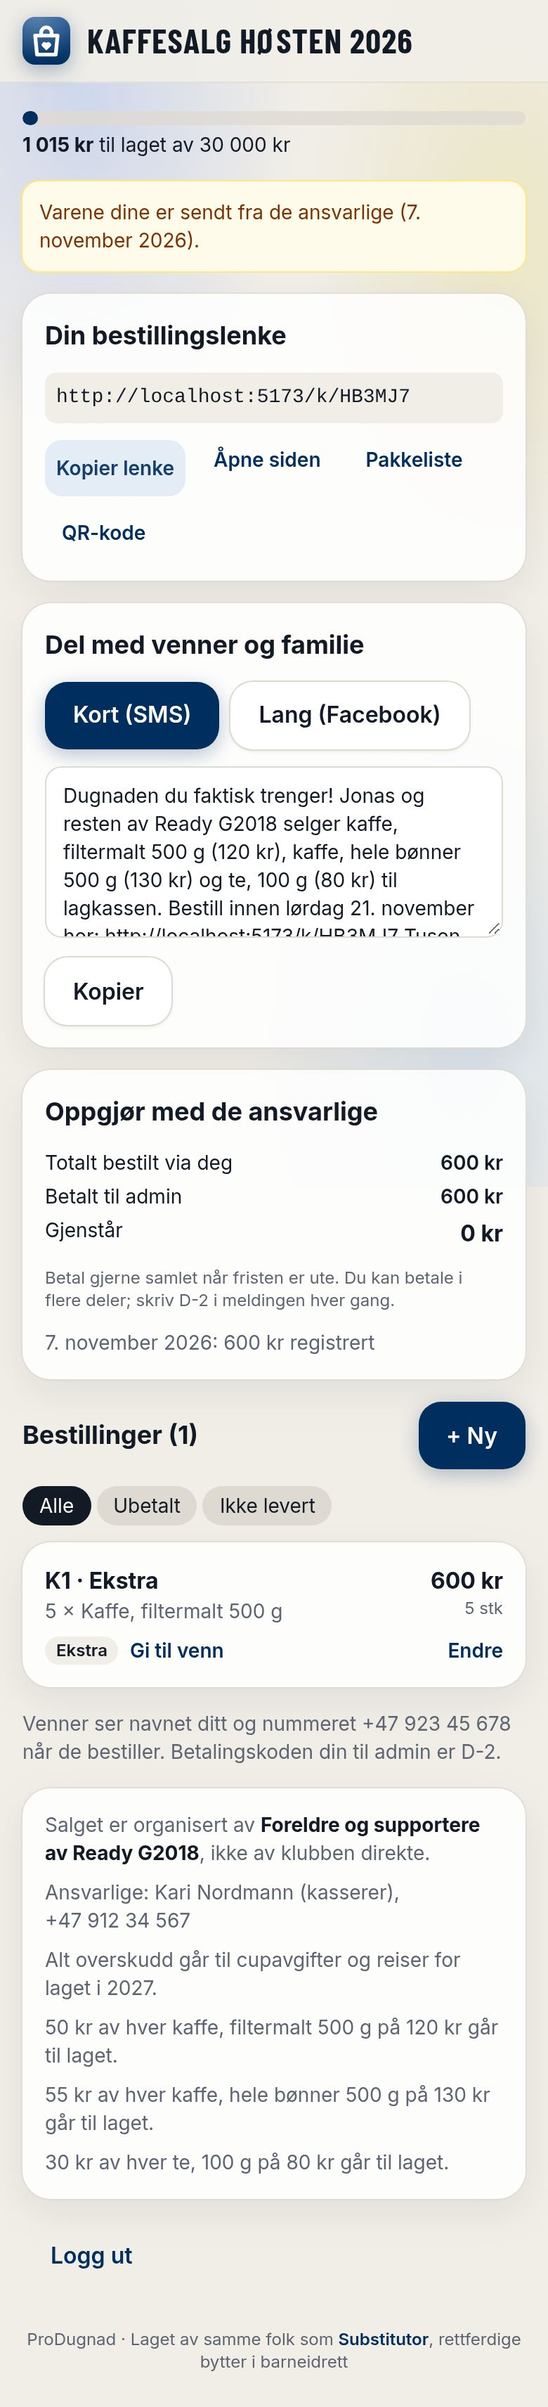
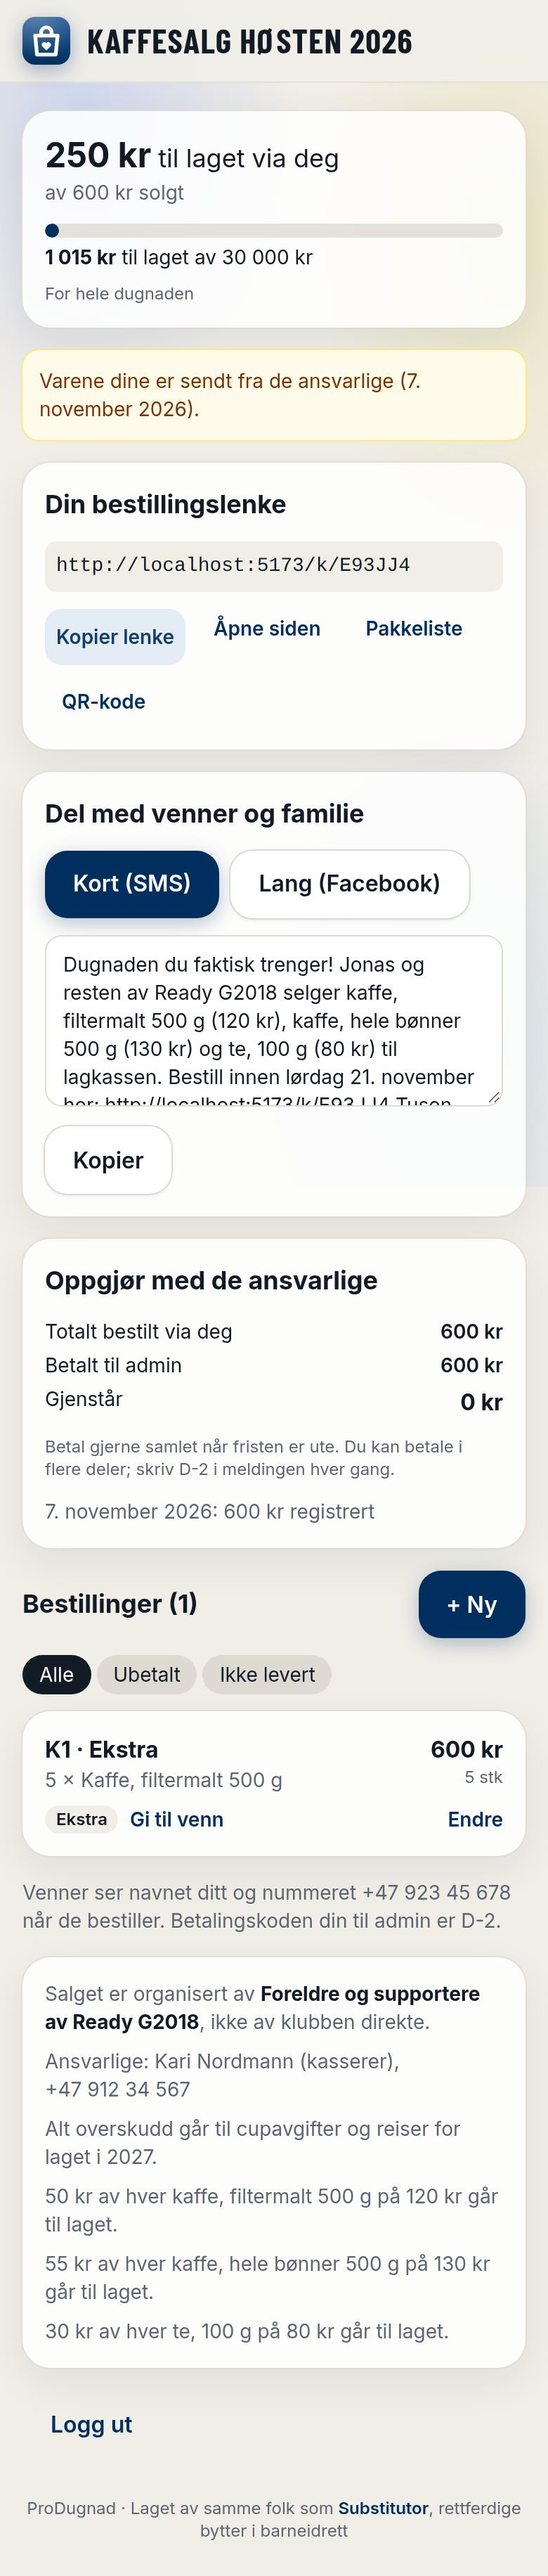
Money to the team per parent (parent page and admin list with sorting); idea list in the plan

Changed region(s): [[0.0308, 0.0, 0.9846, 1.0], [0.3692, 0.9688, 0.7692, 1.0], [0.2769, 0.9688, 0.3077, 1.0]]

diff --git a/src/pages/admin/ParentsTab.tsx b/src/pages/admin/ParentsTab.tsx
@@ -8,9 +8,14 @@ import { supabase } from '../../lib/supabase'
 
 export function ParentsTab({ data, reload }: { data: AdminData; reload: () => Promise<void> }) {
   const [open, setOpen] = useState<string | null>(null)
+  const [sortBy, setSortBy] = useState<'name' | 'team'>('name')
   const rows = data.parents
     .map((p) => ({ parent: p, totals: data.totals.find((t) => t.campaign_parent_id === p.id) }))
-    .sort((a, b) => a.parent.profiles.name.localeCompare(b.parent.profiles.name, 'nb'))
+    .sort((a, b) =>
+      sortBy === 'team'
+        ? Number(b.totals?.to_team ?? 0) - Number(a.totals?.to_team ?? 0)
+        : a.parent.profiles.name.localeCompare(b.parent.profiles.name, 'nb'),
+    )
 
   const printAll = (
     <Link to={`/admin/d/${data.campaign.id}/pakkelister`} className="block w-fit font-semibold text-brand">
@@ -21,7 +26,23 @@ export function ParentsTab({ data, reload }: { data: AdminData; reload: () => Pr
 
   return (
     <div className="space-y-2">
-      {printAll}
+      <div className="flex flex-wrap items-center justify-between gap-2">
+        {printAll}
+        <div className="flex gap-1 text-sm" role="radiogroup" aria-label="Sorter">
+          {(['name', 'team'] as const).map((k) => (
+            <button
+              key={k}
+              type="button"
+              role="radio"
+              aria-checked={sortBy === k}
+              onClick={() => setSortBy(k)}
+              className={`rounded-full px-3 py-1 ${sortBy === k ? 'bg-ink text-white' : 'bg-line'}`}
+            >
+              {k === 'name' ? 'Navn' : 'Mest til laget'}
+            </button>
+          ))}
+        </div>
+      </div>
       {rows.map(({ parent, totals }) => {
         const diff = Number(totals?.diff ?? 0)
         return (
@@ -33,10 +54,11 @@ export function ParentsTab({ data, reload }: { data: AdminData; reload: () => Pr
                 </div>
                 <div className="text-sm text-muted">
                   {parent.child_first_name && `${parent.child_first_name} · `}
-                  {totals?.order_count ?? 0} {totals?.order_count === 1 ? 'bestilling' : 'bestillinger'}
+                  {totals?.order_count ?? 0} {totals?.order_count === 1 ? 'bestilling' : 'bestillinger'} ·{' '}
+                  <strong className="text-ink">{kr(totals?.to_team)}</strong> til laget
                 </div>
               </div>
-              <div className="text-right text-sm">
+              <div className="shrink-0 space-y-1 text-right text-sm whitespace-nowrap">
                 <div>
                   {kr(totals?.paid)} / {kr(totals?.owed)}
                 </div>

diff --git a/src/pages/parent/ParentPage.tsx b/src/pages/parent/ParentPage.tsx
@@ -70,7 +70,14 @@ export default function ParentPage() {
       <TopBar title={campaign.name} back={profile?.is_admin ? '/admin' : undefined} />
       <Page>
         {page && page.campaign.raised !== null && (
-          <ProgressBar raised={page.campaign.raised} target={page.campaign.target_amount ?? 0} />
+          <Card className="space-y-3">
+            <p className="text-lg">
+              <strong className="text-2xl">{kr(totals?.to_team)}</strong> til laget via deg
+              <span className="block text-sm text-muted">av {kr(totals?.owed)} solgt</span>
+            </p>
+            <ProgressBar raised={page.campaign.raised} target={page.campaign.target_amount ?? 0} />
+            <p className="-mt-1 text-xs text-muted">For hele dugnaden</p>
+          </Card>
         )}
         {campaign.locked_at && !campaign.closed_at && (
           <Notice>Bestillingene er låst. Varene er bestilt fra leverandøren. Du kan fortsatt krysse av betalt og levert.</Notice>

diff --git a/src/components/ui.tsx b/src/components/ui.tsx
@@ -101,7 +101,7 @@ export function Badge({ children, tone = 'stone' }: { children: ReactNode; tone?
     amber: 'bg-amber-100 text-amber-900',
     blue: 'bg-sky-100 text-sky-900',
   }
-  return <span className={`inline-block rounded-full px-2 py-0.5 text-xs font-semibold ${tones[tone]}`}>{children}</span>
+  return <span className={`inline-block rounded-full px-2 py-0.5 text-xs font-semibold whitespace-nowrap ${tones[tone]}`}>{children}</span>
 }
 
 export function Logo({ size = 34 }: { size?: number }) {

diff --git a/src/lib/types.ts b/src/lib/types.ts
@@ -175,6 +175,8 @@ export interface ParentTotals {
   diff: number
   friend_unpaid: number
   order_count: number
+  /** Money to the team from this parent's orders */
+  to_team: number
 }
 
 export interface ParentPayment {

diff --git a/docs/tekster.md b/docs/tekster.md
@@ -117,6 +117,7 @@ Every text in the app, the emails and the link previews, as of 7 November 2026, 
 
 | # | Where | Text |
 |---|---|---|
+| F0 | Top (follows Fremdrift) | **765 kr** til laget via deg · av 1 850 kr solgt · *progress bar* · For hele dugnaden |
 | F1 | Box title | Din bestillingslenke |
 | F2 | Buttons | Kopier lenke · Åpne siden · Pakkeliste · QR-kode / Skjul QR-kode |
 | F3 | QR print heading | *Kaffesalg* – bestill via *Ola Hansen* · Skriv ut |
@@ -206,7 +207,7 @@ Every text in the app, the emails and the link previews, as of 7 November 2026, 
 | I6 | Status, locked | Låst 7. november 2026. Foreldre kan ikke legge til eller endre bestillinger. · Lås opp · Avslutt dugnaden |
 | I7 | Status, finished | Avsluttet 7. november 2026. · Åpne igjen |
 | I8 | Confirms | Låse bestillingene? Foreldre og venner kan ikke bestille eller endre etterpå. · Låse opp bestillingene igjen? · Avslutte dugnaden? Avslutningsmeldingen vises da på alle sider. · Åpne dugnaden igjen? |
-| I9 | Foreldre tab | Skriv ut alle pakkelister → · Ola Hansen D-1 · Emma · 4 bestillinger · 0 kr / 1 370 kr · Oppgjort / Skylder 1 370 kr / Betalt 200 kr for mye |
+| I9 | Foreldre tab | Skriv ut alle pakkelister → · Navn / Mest til laget · Emma · 6 bestillinger · **765 kr** til laget · Ola Hansen D-1 · Emma · 4 bestillinger · 0 kr / 1 370 kr · Oppgjort / Skylder 1 370 kr / Betalt 200 kr for mye |
 | I10 | Opened parent | Betalinger · Ingen registrert. · Beløp (kr) · Dato · Registrer betaling fra Ola · Slett · Merk varer sendt / Varer sendt 7. november 2026 (angre) · Pakkeliste · Se forelderens side → |
 | I11 | Confirms | Slette denne betalingen? · Merke at varene er sendt til Ola Hansen? Forelderen får e-post. |
 | I12 | Empty | Ingen foreldre har meldt seg på ennå. Del påmeldingslenken fra Oversikt. |

diff --git a/docs/plan.md b/docs/plan.md
@@ -64,3 +64,7 @@ Also built early (phase 2 items that were cheap): lock/unlock and close, supplie
 
 - 7 Nov 2026: look borrowed from Substitutor but light; then switched to ready.no navy (#002e5f) to tell it apart. Logo: shopping bag with heart. Name shown as PRODUGNAD with PRO in faded navy. Phone numbers +47 912 34 567, amounts with kr. "ikke av klubben direkte". Admin page = "Administrasjon"; settings = "Innstillinger"; campaign settings tab = "Oppsett". Admins skip the front page.
 - Next: owner's end-to-end test on a phone, then keep-alive cron (Supabase pauses after 7 idle days), link preview, packing list, extra stock, then phase 3.
+
+## Ideas (not built)
+
+- **Picture of the child with a campaign banner** (owner, 7 Nov 2026): the parent picks a photo of their child, and the app puts the campaign's banner on it (banner text/design set by the admin under Oppsett), ready to share on Facebook/Instagram/Messenger. The photo must never touch the server: it is combined in the browser (`<canvas>`) and only saved or shared from the phone (download / `navigator.share` with a file). Nothing is uploaded or stored.
